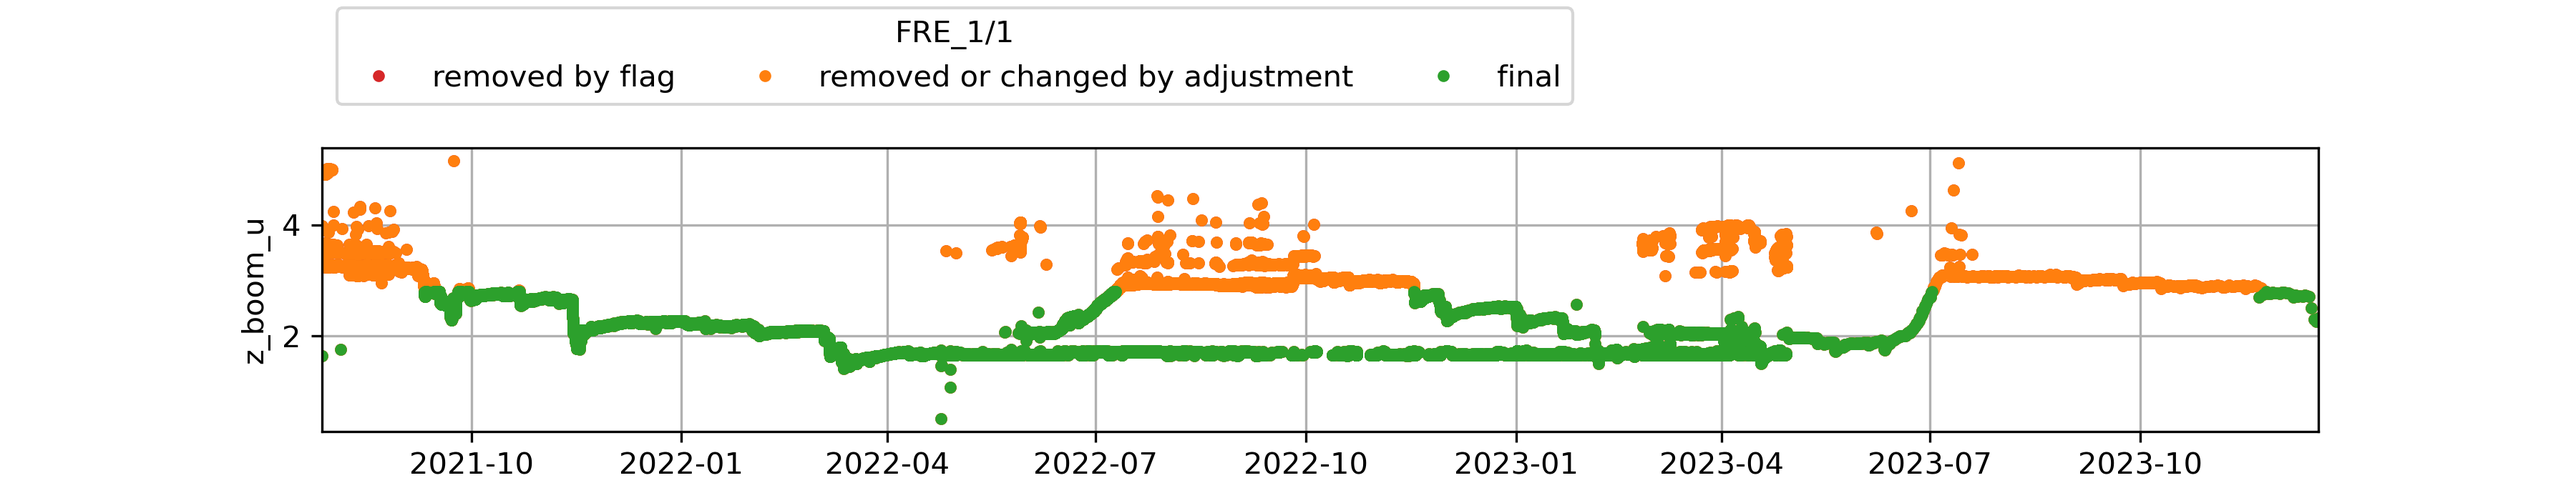
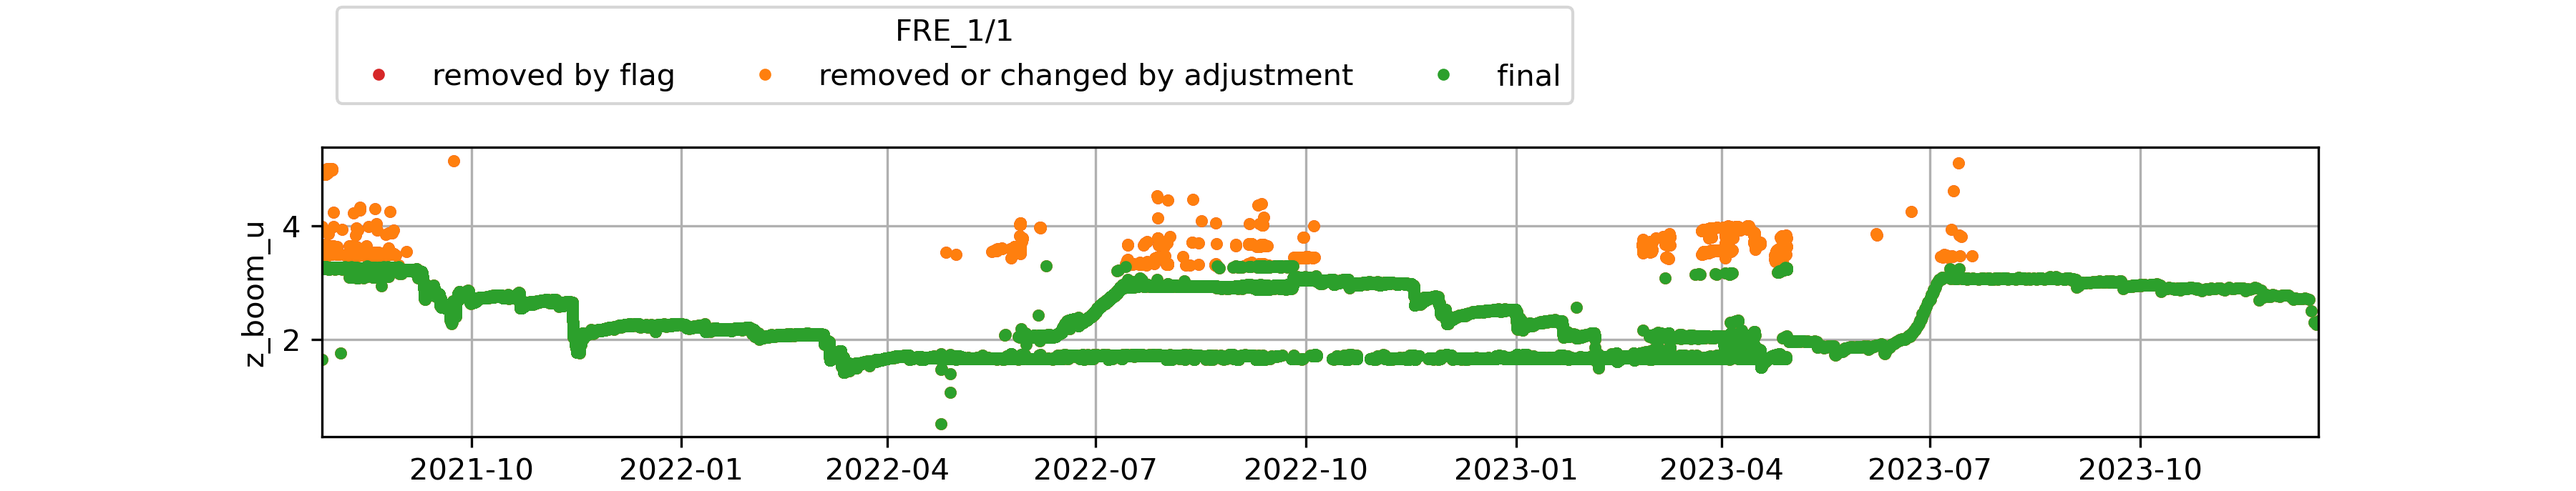
fixed FRE

diff --git a/plot_flagged_data.py b/plot_flagged_data.py
@@ -16,8 +16,8 @@ from pypromice.process import AWS, resampleL3
 from pypromice.process.L1toL2 import adjustTime, adjustData, flagNAN
 import xarray as xr
 import os
-import matplotlib
-matplotlib.use('Agg')
+# import matplotlib
+# matplotlib.use('Agg')
 import tocgen
 
 def advanced_filters(ds2, station, station_type):
@@ -67,7 +67,7 @@ def Msg(txt):
 plt.close('all')
 
 all_dirs = os.listdir(path_to_qc_files+'adjustments')+os.listdir(path_to_qc_files+'flags')
-for station in ['CEN2']:  # os.listdir(path_to_qc_files+'adjustments'): 
+for station in ['FRE']:  # os.listdir(path_to_qc_files+'adjustments'): 
 
 # for station in np.unique(np.array(all_dirs))[-2:]: 
     station = station.replace('.csv','')

diff --git a/plot_compilations/flags_CEN2_2023_12_19_toc.md b/plot_compilations/flags_CEN2_2023_12_19_toc.md
@@ -1,16 +1,8 @@
-* [CEN2](#s1)
-# <a id='s1' />CEN2
-| t0                        | t1                        | variable                                                            | what was done   | comment                                                   | URL_graphic                                                                      |
-|:--------------------------|:--------------------------|:--------------------------------------------------------------------|:----------------|:----------------------------------------------------------|:---------------------------------------------------------------------------------|
-| nan                       | 2022-06-19T00:00:00+00:00 | t_i_1 t_i_2 t_i_3 t_i_4 t_i_5 t_i_6 t_i_7 t_i_8 t_i_9 t_i_10 t_i_11 | flag            | thermistor string not drilled in in 2021 but done in 2022 | nan                                                                              |
-| 2023-06-01T00:00:00+00:00 | nan                       | t_i_1 t_i_2 t_i_3 t_i_4 t_i_5 t_i_6 t_i_7 t_i_8 t_i_9 t_i_10 t_i_11 | flag            | give 0degC                                                | https://github.com/GEUS-Glaciology-and-Climate/PROMICE-AWS-data-issues/issues/69 |
-| 2022-10-14T18:00:00+00:00 | 2023-01-01T18:00:00+00:00 | z_boom_l                                                            | min_filter 1.8  | manually adjusted by bav                                  | nan                                                                              |
-| nan                       | nan                       | z_boom_u                                                            | min_filter 2.0  | manually adjusted by bav                                  | nan                                                                              |
-| nan                       | nan                       | z_boom_u                                                            | max_filter 4.3  | manually adjusted by bav                                  | nan                                                                              |
-| nan                       | nan                       | z_boom_l                                                            | min_filter 1.5  | manually adjusted by bav                                  | nan                                                                              |
-| nan                       | nan                       | z_boom_l                                                            | max_filter 3.0  | manually adjusted by bav                                  | nan                                                                              |
+* [FRE](#s1)
+# <a id='s1' />FRE
+|   t0 |   t1 | variable   | what was done   | comment                                  |   URL_graphic |
+|-----:|-----:|:-----------|:----------------|:-----------------------------------------|--------------:|
+|  nan |  nan | z_boom_u   | max_filter 3.3  | maximum height of the boom on tripod AWS |           nan |
  
-![CEN2](../figures/flags/CEN2_0.png)
-![CEN2](../figures/flags/CEN2_1.png)
-![CEN2](../figures/flags/CEN2_2.png)
+![FRE](../figures/flags/FRE_0.png)
  

diff --git a/plot_compilations/flags_CEN2_2023_12_19.md b/plot_compilations/flags_CEN2_2023_12_19.md
@@ -1,15 +1,7 @@
-# CEN2
-| t0                        | t1                        | variable                                                            | what was done   | comment                                                   | URL_graphic                                                                      |
-|:--------------------------|:--------------------------|:--------------------------------------------------------------------|:----------------|:----------------------------------------------------------|:---------------------------------------------------------------------------------|
-| nan                       | 2022-06-19T00:00:00+00:00 | t_i_1 t_i_2 t_i_3 t_i_4 t_i_5 t_i_6 t_i_7 t_i_8 t_i_9 t_i_10 t_i_11 | flag            | thermistor string not drilled in in 2021 but done in 2022 | nan                                                                              |
-| 2023-06-01T00:00:00+00:00 | nan                       | t_i_1 t_i_2 t_i_3 t_i_4 t_i_5 t_i_6 t_i_7 t_i_8 t_i_9 t_i_10 t_i_11 | flag            | give 0degC                                                | https://github.com/GEUS-Glaciology-and-Climate/PROMICE-AWS-data-issues/issues/69 |
-| 2022-10-14T18:00:00+00:00 | 2023-01-01T18:00:00+00:00 | z_boom_l                                                            | min_filter 1.8  | manually adjusted by bav                                  | nan                                                                              |
-| nan                       | nan                       | z_boom_u                                                            | min_filter 2.0  | manually adjusted by bav                                  | nan                                                                              |
-| nan                       | nan                       | z_boom_u                                                            | max_filter 4.3  | manually adjusted by bav                                  | nan                                                                              |
-| nan                       | nan                       | z_boom_l                                                            | min_filter 1.5  | manually adjusted by bav                                  | nan                                                                              |
-| nan                       | nan                       | z_boom_l                                                            | max_filter 3.0  | manually adjusted by bav                                  | nan                                                                              |
+# FRE
+|   t0 |   t1 | variable   | what was done   | comment                                  |   URL_graphic |
+|-----:|-----:|:-----------|:----------------|:-----------------------------------------|--------------:|
+|  nan |  nan | z_boom_u   | max_filter 3.3  | maximum height of the boom on tripod AWS |           nan |
  
-![CEN2](../figures/flags/CEN2_0.png)
-![CEN2](../figures/flags/CEN2_1.png)
-![CEN2](../figures/flags/CEN2_2.png)
+![FRE](../figures/flags/FRE_0.png)
  

diff --git a/plot_compilations/flags_2023_12_19.md b/plot_compilations/flags_2023_12_19.md
@@ -27,7 +27,6 @@
 ![CEN2](../figures/flags/CEN2_1.png)
 ![CEN2](../figures/flags/CEN2_2.png)
  
-
  
 # CP1
 | t0                        | t1                        | variable                                                                                                                                                                                                                                                                                                                                                                                                                                                                                                                                                                                                       | flag      | comment                                                  | URL_graphic                                                                      | adj_func   | adjust_function   |   adjust_value |
